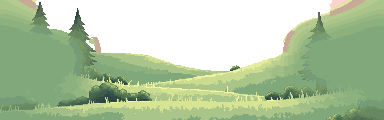
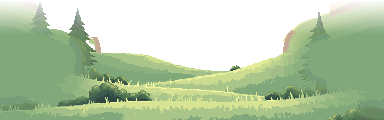
Fade parallax layer top edges into the sky
The hills/mountain parallax PNGs filled their frame to a flat top
boundary, showing a hard horizontal cut when the camera panned high
(now reachable via double jump). finalize.py now ramps the top rows'
alpha to 0 so the layers dissolve into the sky as atmospheric haze.

Changed region(s): [[0.7812, 0.0, 1.0, 0.25], [0.0, 0.0, 0.125, 0.225], [0.1875, 0.075, 0.2188, 0.25]]

diff --git a/tools/finalize.py b/tools/finalize.py
@@ -6,11 +6,24 @@ right-facing row, resizes seamless tiles to the grid size, and trims single spri
 to their opaque bounding box. Re-runnable; safe to re-run after regenerating sources.
 """
 import os
+import numpy as np
 from PIL import Image
 
 E = "assets/raw/explore"
 OUT = "public/assets"
 TILE = 32
+
+
+def fade_top(im, fade_px):
+    """Ramp the top `fade_px` rows of alpha to 0 so a parallax layer dissolves
+    into the sky instead of showing a hard horizontal cut where the image ends."""
+    im = im.convert("RGBA")
+    a = np.array(im).astype(np.float32)
+    ramp = np.ones(im.height, dtype=np.float32)
+    for y in range(min(fade_px, im.height)):
+        ramp[y] = (y / fade_px) ** 0.8
+    a[:, :, 3] *= ramp[:, None]
+    return Image.fromarray(np.clip(a, 0, 255).astype("uint8"), "RGBA")
 
 
 def save(im, path):
@@ -72,9 +85,9 @@ single(f"{E}/deco/spikes.png", "spikes", "deco")
 single(f"{E}/deco/torch.png", "torch", "deco")
 single(f"{E}/bg2/castle-far.png", "castle", "deco")
 
-print("BACKGROUND PARALLAX LAYERS:")
-save(Image.open(f"{E}/bg2/hills-sil.png").convert("RGBA"), f"{OUT}/bg/hills-far.png")
-save(Image.open(f"{E}/bg2/hills-near.png").convert("RGBA"), f"{OUT}/bg/hills-near.png")
+print("BACKGROUND PARALLAX LAYERS (top edge faded into sky):")
+save(fade_top(Image.open(f"{E}/bg2/hills-sil.png"), 42), f"{OUT}/bg/hills-far.png")
+save(fade_top(Image.open(f"{E}/bg2/hills-near.png"), 34), f"{OUT}/bg/hills-near.png")
 
 print("UI:")
 fav = Image.open(f"{E}/props2/coin-a.png").convert("RGBA").resize((32, 32), Image.LANCZOS)